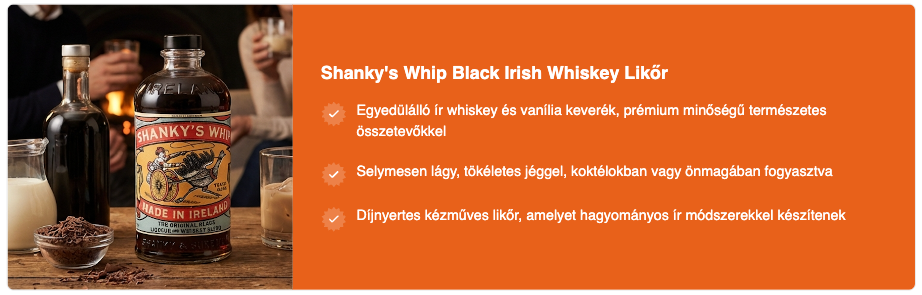
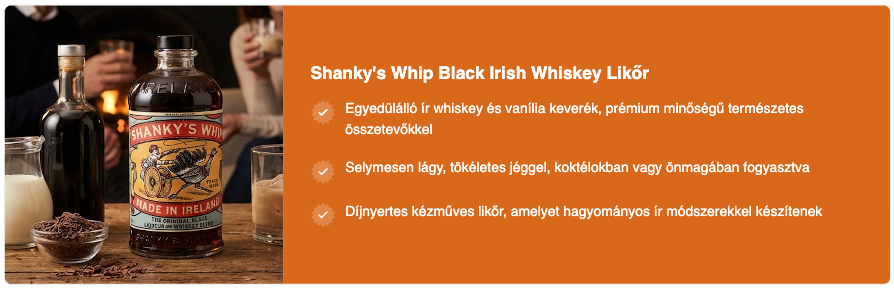
PPO pages: product pages block variants, domain modal improvements, variable selectors
- PPO Campaign Detail V2: three product pages summary layout variants (V1/V2/V3), control variant thumbnail with Ban icon, variant row dividers
- PPO Campaign Flow MVP: domain modal hover effects, Add new domain with AddDomainModal, scroll fade removal at bottom, Button component for close
- PPO Setup Preview V3: SPP block background color changed to match cart button (#d8691b)
- PPO Variant Detail V2: variables selector matching setup-preview-v3 style, SPP block color sync

diff --git a/src/views/PpoCampaignDetailV2View.vue b/src/views/PpoCampaignDetailV2View.vue
@@ -394,11 +394,15 @@
                     <div class="flex-1 bg-gray-200 rounded-sm"></div>
                   </div>
                 </div>
+                <div v-else class="w-36 h-24 rounded-lg border border-om-gray-200 overflow-hidden shrink-0 flex items-center justify-center bg-om-gray-100">
+                  <Ban :size="60" :stroke-width="1" class="text-om-gray-300" />
+                </div>
                 <div>
                   <span class="text-sm font-medium text-om-gray-700">{{ variant.name }}</span>
                   <div v-if="variant.variables.length" class="flex flex-wrap gap-1.5 mt-1.5">
                     <Tag v-for="variable in variant.variables" :key="variable.id" variant="gray">{{ variable.name }}</Tag>
                   </div>
+                  <div v-else class="text-xs text-om-gray-400 mt-1">No variant will be shown.</div>
                 </div>
               </div>
               <div @click.stop>
@@ -436,35 +440,121 @@
 
           <!-- Product Pages -->
           <div class="bg-white rounded-lg shadow-[0_1px_2px_1px_rgb(0_0_0/0.03)] p-5">
-            <!-- Header -->
-            <div class="flex items-center justify-between mb-5">
-              <h3 class="text-base font-semibold text-om-gray-700">Product pages</h3>
-              <div class="flex items-center gap-4">
-                <div class="flex items-baseline gap-1.5">
-                  <span class="text-sm text-om-gray-400">Ready for</span>
-                  <span class="text-2xl font-semibold text-om-gray-700 tabular-nums">{{ campaignProductPages }}</span>
-                  <span class="text-sm text-om-gray-400">/ {{ campaignTotalProducts }}</span>
+            <h3 class="text-base font-semibold text-om-gray-700 mb-4">Product pages</h3>
+            <div class="flex gap-5 items-start">
+              <!-- Variable table -->
+              <div class="flex-1 min-w-0">
+                <div class="grid grid-cols-[1fr_80px_100px_80px] gap-3 px-3 pb-2 border-b border-om-gray-100 text-xs text-om-gray-500 font-medium">
+                  <span>Variable</span>
+                  <span>Type</span>
+                  <span class="text-right">Last updated</span>
+                  <span class="text-right">Ready</span>
                 </div>
-                <Button variant="outline" size="sm">Show product catalog</Button>
+                <div class="flex flex-col">
+                  <div
+                    v-for="variable in allVariables"
+                    :key="variable.id"
+                    class="grid grid-cols-[1fr_80px_100px_80px] gap-3 px-3 py-2.5 cursor-pointer hover:bg-om-gray-50 rounded-lg transition-all items-center"
+                    @click="$emit('navigate', variable.type === 'Image' ? 'settings-ai-texts-images-v2-generation' : 'settings-ai-texts-images-v2-text-generation')"
+                  >
+                    <div class="flex items-center gap-2 min-w-0">
+                      <span class="text-sm text-om-gray-700 truncate">{{ variable.name }}</span>
+                    </div>
+                    <div>
+                      <Tag variant="outlined">{{ variable.type }}</Tag>
+                    </div>
+                    <span class="text-xs text-om-gray-400 text-right">{{ variable.lastUpdated }}</span>
+                    <span class="text-base font-semibold text-om-gray-700 tabular-nums text-right">{{ variable.generated.split(' / ')[0] }}</span>
+                  </div>
+                </div>
+              </div>
+              <!-- Summary side -->
+              <div class="w-96 shrink-0 px-4 py-3 rounded-lg bg-om-gray-50">
+                <div class="flex items-end justify-between mb-2">
+                  <div class="flex items-baseline gap-1.5">
+                    <span class="text-5xl font-light text-om-gray-700 tabular-nums leading-none">{{ campaignProductPages }}</span>
+                    <span class="text-sm text-om-gray-400">/ {{ campaignTotalProducts }} product pages ready</span>
+                  </div>
+                  <Button variant="outline" size="sm" class="shrink-0">Product catalog</Button>
+                </div>
+                <div class="text-xs text-om-gray-400 leading-relaxed">This campaign will appear on product pages where all variables have been successfully generated.</div>
               </div>
             </div>
-            <!-- Variable cards -->
-            <div class="grid gap-2.5" :style="{ gridTemplateColumns: `repeat(${Math.min(allVariables.length, 4)}, 1fr)` }">
-              <div
-                v-for="variable in allVariables"
-                :key="variable.id"
-                class="border border-om-gray-100 rounded-lg px-3 py-2.5 cursor-pointer hover:border-om-gray-200 hover:shadow-sm transition-all flex items-center justify-between gap-3"
-                @click="$emit('navigate', variable.type === 'Image' ? 'settings-ai-texts-images-v2-generation' : 'settings-ai-texts-images-v2-text-generation')"
-              >
-                <div class="flex items-center gap-2 min-w-0">
-                  <div class="w-7 h-7 rounded-md flex items-center justify-center shrink-0" :class="variable.type === 'Image' ? 'bg-blue-50' : 'bg-purple-50'">
-                    <ImageIcon v-if="variable.type === 'Image'" :size="15" class="text-blue-500" />
-                    <Type v-else :size="15" class="text-purple-500" />
-                  </div>
-                  <span class="text-sm text-om-gray-700 truncate">{{ variable.name }}</span>
-                  <span class="text-xs text-om-gray-400 shrink-0">{{ variable.lastUpdated }}</span>
+          </div>
+
+          <!-- Product Pages V2: kör diagram, summary a teljes jobb oldalon -->
+          <div class="bg-white rounded-lg shadow-[0_1px_2px_1px_rgb(0_0_0/0.03)] flex overflow-hidden">
+            <div class="flex-1 p-5">
+              <h3 class="text-base font-semibold text-om-gray-700 mb-4">Product pages — V2</h3>
+              <div class="grid grid-cols-[1fr_80px_100px_80px] gap-3 px-3 pb-2 border-b border-om-gray-100 text-xs text-om-gray-500 font-medium">
+                <span>Variable</span>
+                <span>Type</span>
+                <span class="text-right">Last updated</span>
+                <span class="text-right">Ready</span>
+              </div>
+              <div class="flex flex-col">
+                <div v-for="variable in allVariables" :key="'v2-' + variable.id" class="grid grid-cols-[1fr_80px_100px_80px] gap-3 px-3 py-2.5 cursor-pointer hover:bg-om-gray-50 rounded-lg transition-all items-center">
+                  <div class="flex items-center gap-2 min-w-0"><span class="text-sm text-om-gray-700 truncate">{{ variable.name }}</span></div>
+                  <div><Tag variant="outlined">{{ variable.type }}</Tag></div>
+                  <span class="text-xs text-om-gray-400 text-right">{{ variable.lastUpdated }}</span>
+                  <span class="text-base font-semibold text-om-gray-700 tabular-nums text-right">{{ variable.generated.split(' / ')[0] }}</span>
                 </div>
-                <span class="text-base font-semibold text-om-gray-700 tabular-nums shrink-0">{{ variable.generated.split(' / ')[0] }}</span>
+              </div>
+            </div>
+            <div class="w-96 shrink-0 px-5 py-5 bg-om-gray-50 flex flex-col justify-center m-3 rounded-xl">
+              <!-- Top row: stat + button -->
+              <div class="flex items-start justify-between mb-3">
+                <div class="flex items-center gap-2.5">
+                  <div class="relative w-14 h-14 shrink-0">
+                    <svg class="w-14 h-14 -rotate-90" viewBox="0 0 56 56">
+                      <circle cx="28" cy="28" r="22" fill="none" stroke="#e3e5e8" stroke-width="7" />
+                      <circle cx="28" cy="28" r="22" fill="none" stroke="#2CC896" stroke-width="7" stroke-linecap="round" :stroke-dasharray="`${(campaignProductPages / campaignTotalProducts) * 138.2} 138.2`" />
+                    </svg>
+                  </div>
+                  <div>
+                    <div class="text-[2rem] font-light text-om-gray-700 tabular-nums leading-none font-['Funnel_Sans']">{{ campaignProductPages }}<span class="text-base text-om-gray-500 font-normal"> / {{ campaignTotalProducts }}</span></div>
+                    <div class="text-sm text-om-gray-500 mt-1">product pages ready</div>
+                  </div>
+                </div>
+                <Button variant="outline" size="sm" class="shrink-0">Product catalog</Button>
+              </div>
+              <!-- Description -->
+              <div class="text-xs text-om-gray-400 leading-relaxed">This campaign will appear on product pages where all variables have been successfully generated.</div>
+            </div>
+          </div>
+
+          <!-- Product Pages V3 -->
+          <div class="bg-white rounded-lg shadow-[0_1px_2px_1px_rgb(0_0_0/0.03)] p-5">
+            <h3 class="text-base font-semibold text-om-gray-700 mb-4">Product pages — V3</h3>
+            <div class="flex gap-5 items-start">
+              <div class="flex-1 min-w-0">
+                <div class="grid grid-cols-[1fr_80px_100px_80px] gap-3 px-3 pb-2 border-b border-om-gray-100 text-xs text-om-gray-500 font-medium">
+                  <span>Variable</span>
+                  <span>Type</span>
+                  <span class="text-right">Last updated</span>
+                  <span class="text-right">Ready</span>
+                </div>
+                <div class="flex flex-col">
+                  <div v-for="variable in allVariables" :key="'v3-' + variable.id" class="grid grid-cols-[1fr_80px_100px_80px] gap-3 px-3 py-2.5 cursor-pointer hover:bg-om-gray-50 rounded-lg transition-all items-center">
+                    <div class="flex items-center gap-2 min-w-0"><span class="text-sm text-om-gray-700 truncate">{{ variable.name }}</span></div>
+                    <div><Tag variant="outlined">{{ variable.type }}</Tag></div>
+                    <span class="text-xs text-om-gray-400 text-right">{{ variable.lastUpdated }}</span>
+                    <span class="text-base font-semibold text-om-gray-700 tabular-nums text-right">{{ variable.generated.split(' / ')[0] }}</span>
+                  </div>
+                </div>
+              </div>
+              <div class="w-96 shrink-0 px-5 py-4 rounded-lg bg-om-gray-50">
+                <div class="flex items-end justify-between mb-3">
+                  <div>
+                    <div class="text-sm font-medium text-om-gray-600 mb-1">Product page coverage</div>
+                    <div class="flex items-baseline gap-1.5">
+                      <span class="text-5xl font-light text-om-gray-700 tabular-nums leading-none">{{ campaignProductPages }}</span>
+                      <span class="text-sm text-om-gray-400">/ {{ campaignTotalProducts }}</span>
+                    </div>
+                  </div>
+                  <Button variant="outline" size="sm" class="shrink-0">Product catalog</Button>
+                </div>
+                <div class="text-xs text-om-gray-400 leading-relaxed">This campaign will appear on product pages where all variables have been successfully generated.</div>
               </div>
             </div>
           </div>
@@ -1227,7 +1317,7 @@
 
 <script setup>
 import { ref, reactive, computed, watch, onMounted, onUnmounted } from 'vue'
-import { ChevronDown, ChevronUp, ChevronRight, TrendingUp, Calendar, Target, MoreVertical, GraduationCap, Clock, RefreshCw, Users, Send, Monitor, Smartphone, X, Plus, ImageIcon, Search, SlidersHorizontal, Upload, ArrowLeft, Wand2, Sparkles, Eye, SquareDashedMousePointer, Trash2, Type, Pencil, ChevronsUp, ChevronsDown, Minus, Check } from 'lucide-vue-next'
+import { ChevronDown, ChevronUp, ChevronRight, TrendingUp, Calendar, Target, MoreVertical, GraduationCap, Clock, RefreshCw, Users, Send, Monitor, Smartphone, X, Plus, ImageIcon, Search, SlidersHorizontal, Upload, ArrowLeft, Wand2, Sparkles, Eye, SquareDashedMousePointer, Trash2, Type, Pencil, ChevronsUp, ChevronsDown, Minus, Check, Ban, Info } from 'lucide-vue-next'
 import Tag from '../components/shared/Tag.vue'
 import ProductPagePreview from '../components/ppo/ProductPagePreview.vue'
 import Button from '../components/shared/Button.vue'

diff --git a/src/views/PpoVariantDetailV2View.vue b/src/views/PpoVariantDetailV2View.vue
@@ -158,6 +158,23 @@
                 Position and styling can be set separately for {{ previewMode === 'desktop' ? 'mobile' : 'desktop' }}
               </span>
             </div>
+            <!-- Variables -->
+            <div class="pt-2 mt-2 border-t border-om-gray-200">
+              <label class="text-[11px] uppercase tracking-wider font-semibold text-om-gray-700 mb-2 flex items-center gap-1.5">
+                <GitBranch :size="12" class="text-om-gray-400" />
+                Variables
+              </label>
+              <div class="space-y-2">
+                <div>
+                  <label class="text-xs font-medium text-om-gray-500 mb-1 block">Image</label>
+                  <Dropdown v-model="selectedImageVariable" :options="imageVariableOptions" size="sm" />
+                </div>
+                <div>
+                  <label class="text-xs font-medium text-om-gray-500 mb-1 block">Text</label>
+                  <Dropdown v-model="selectedTextVariable" :options="textVariableOptions" size="sm" />
+                </div>
+              </div>
+            </div>
           </div>
         </div>
 
@@ -171,7 +188,7 @@ import { ref, reactive, computed, onMounted } from 'vue'
 import Button from '../components/shared/Button.vue'
 import Dropdown from '../components/shared/Dropdown.vue'
 import ProductPagePreview from '../components/ppo/ProductPagePreview.vue'
-import { ChevronLeft, Monitor, Smartphone, ChevronDown, ImageIcon, Type, Globe } from 'lucide-vue-next'
+import { ChevronLeft, Monitor, Smartphone, ChevronDown, ImageIcon, Type, Globe, Pencil, GitBranch } from 'lucide-vue-next'
 
 const baseUrl = window.location.origin
 
@@ -212,7 +229,7 @@ const iframeGeneratedContent = computed(() => {
       content['image-badge'] = { image: baseUrl + (previewMode.value === 'mobile' ? '/image-with-badge/image-1-mobile.jpg' : '/image-with-badge/image-1.jpg') }
     } else if (type.id === 'product-summary') {
       const s = typeSettings.value['product-summary'] || {}
-      const bg = s.bgColor || '#E8611A'
+      const bg = s.bgColor || '#d8691b'
       const tc = s.textColor || '#FFFFFF'
       const tff = s.titleFontFamily && s.titleFontFamily !== 'Inherit' ? s.titleFontFamily : ''
       const tfs = s.titleFontSize || '20px'
@@ -292,6 +309,19 @@ const cornersModel = computed({
 })
 const cornerRadius = computed(() => cornerOptions.find(o => o.value === selectedCorner.value)?.radius || '8px')
 
+const imageVariableOptions = [
+  { value: 'lifestyle', label: 'Product Lifestyle Image' },
+  { value: 'badge-desktop', label: 'Product Image with badge desktop' },
+  { value: 'badge-mobile', label: 'Product Image with badge mobile' },
+]
+const selectedImageVariable = ref(imageVariableOptions[0])
+
+const textVariableOptions = [
+  { value: 'headline-summary', label: 'Headline + summary' },
+  { value: 'headline-subheadline', label: 'Headline + subheadline' },
+  { value: 'benefit-list', label: 'Benefit list' },
+]
+const selectedTextVariable = ref(textVariableOptions[0])
 const activeCard = ref('product-summary')
 const showAllBorders = ref(true)
 onMounted(() => { setTimeout(() => { showAllBorders.value = false }, 3000) })
@@ -319,14 +349,14 @@ const desktopSettings = reactive({
   'product-sentence': { fontFamily: 'Inherit', fontSize: '15px', fontWeight: 'Medium', color: '#23262A', lineHeight: '1.5' },
   'benefit-list':     { fontFamily: 'Inherit', fontSize: '14px', fontWeight: 'Regular', color: '#505763', lineHeight: '1.6' },
   'image-badge':      { borderRadius: '12px', aspectRatio: '1:1' },
-  'product-summary':  { titleFontFamily: 'Inherit', titleFontSize: '20px', titleFontWeight: 'Bold', listFontFamily: 'Inherit', listFontSize: '16px', listFontWeight: 'Regular', checkStyle: 'Badge', bgColor: '#E8611A', textColor: '#FFFFFF' },
+  'product-summary':  { titleFontFamily: 'Inherit', titleFontSize: '20px', titleFontWeight: 'Bold', listFontFamily: 'Inherit', listFontSize: '16px', listFontWeight: 'Regular', checkStyle: 'Badge', bgColor: '#d8691b', textColor: '#FFFFFF' },
 })
 const mobileSettings = reactive({
   'product-image':    { borderRadius: '8px', aspectRatio: 'Auto' },
   'product-sentence': { fontFamily: 'Inherit', fontSize: '14px', fontWeight: 'Medium', color: '#23262A', lineHeight: '1.4' },
   'benefit-list':     { fontFamily: 'Inherit', fontSize: '13px', fontWeight: 'Regular', color: '#505763', lineHeight: '1.5' },
   'image-badge':      { borderRadius: '8px', aspectRatio: '1:1' },
-  'product-summary':  { titleFontFamily: 'Inherit', titleFontSize: '18px', titleFontWeight: 'Bold', listFontFamily: 'Inherit', listFontSize: '14px', listFontWeight: 'Regular', checkStyle: 'Badge', bgColor: '#E8611A', textColor: '#FFFFFF' },
+  'product-summary':  { titleFontFamily: 'Inherit', titleFontSize: '18px', titleFontWeight: 'Bold', listFontFamily: 'Inherit', listFontSize: '14px', listFontWeight: 'Regular', checkStyle: 'Badge', bgColor: '#d8691b', textColor: '#FFFFFF' },
 })
 
 const typeSettings = computed(() => previewMode.value === 'desktop' ? desktopSettings : mobileSettings)

diff --git a/src/views/PpoCampaignFlowMvpView.vue b/src/views/PpoCampaignFlowMvpView.vue
@@ -147,15 +147,15 @@
                 <h3 class="text-lg font-semibold text-om-gray-700 mb-1">Select a domain</h3>
                 <p class="text-sm text-om-gray-400">Choose which store to optimize with Smart Product Pages.</p>
               </div>
-              <button @click="closeDomainModal" class="p-1 rounded-lg hover:bg-om-gray-100 transition-colors cursor-pointer text-om-gray-400 hover:text-om-gray-600 shrink-0 mt-0.5">
-                <X :size="18" />
-              </button>
+              <Button variant="ghost" size="sm" icon-only @click="closeDomainModal" class="shrink-0 mt-0.5">
+                <template #icon><X :size="16" /></template>
+              </Button>
             </div>
 
             <!-- Domain list with bottom shadow -->
             <div>
-              <div ref="domainListRef" class="px-6 pb-6 max-h-96 overflow-y-auto domain-list-scroll" @scroll="onDomainListScroll">
-                <div class="space-y-2">
+              <div ref="domainListRef" :class="['px-6 max-h-96 overflow-y-auto', isScrolledToBottom ? '' : 'domain-list-scroll']" @scroll="onDomainListScroll">
+                <div class="space-y-2 pt-2 pb-4">
                   <div
                     v-for="domain in domains"
                     :key="domain.url"
@@ -163,7 +163,7 @@
                     :class="[
                       syncingDomain === domain.url ? 'border-om-gray-200 bg-om-gray-50' :
                       selectedDomain === domain.url ? 'border-om-orange-500 bg-om-orange-50/50' :
-                      'border-om-gray-200 hover:border-om-gray-300'
+                      'border-om-gray-200 hover:border-om-orange-500 hover:shadow-[0_4px_14px_rgba(237,90,41,0.4)] hover:scale-[1.03]'
                     ]"
                     @click="handleDomainClick(domain)"
                   >
@@ -187,10 +187,18 @@
                 </div>
               </div>
             </div>
+            <!-- Sticky add domain -->
+            <div class="px-6 py-6 border-t border-om-gray-100 shrink-0">
+              <button @click="showDomainModal = false; showAddDomainModal = true" class="flex items-center gap-2 text-sm font-medium text-om-orange-500 hover:text-om-orange-600 cursor-pointer transition-colors">
+                <Plus :size="16" />
+                Add new domain
+              </button>
+            </div>
           </div>
         </div>
       </transition>
     </template>
+    <AddDomainModal v-model="showAddDomainModal" @add="handleNewDomain" />
   </DashboardLayout>
 </template>
 
@@ -198,7 +206,9 @@
 import { ref, reactive, computed } from 'vue'
 import DashboardLayout from '../components/layouts/DashboardLayout.vue'
 import Tag from '../components/shared/Tag.vue'
-import { ChevronLeft, ChevronRight, ImageIcon, Type, Check, AlertCircle, ArrowRight, Loader2, X } from 'lucide-vue-next'
+import Button from '../components/shared/Button.vue'
+import AddDomainModal from '../components/shared/AddDomainModal.vue'
+import { ChevronLeft, ChevronRight, ImageIcon, Type, Check, AlertCircle, ArrowRight, Loader2, X, Plus } from 'lucide-vue-next'
 
 const emit = defineEmits(['back', 'next', 'menu-click'])
 
@@ -211,8 +221,11 @@ const headerShadowStyle = computed(() => ({
   transition: 'box-shadow 0.3s ease',
 }))
 
+const isScrolledToBottom = ref(false)
+
 function onDomainListScroll(e) {
   isScrolled.value = e.target.scrollTop > 0
+  isScrolledToBottom.value = e.target.scrollHeight - e.target.scrollTop - e.target.clientHeight < 10
 }
 const pendingType = ref(null)
 const showDomainModal = ref(false)
@@ -258,6 +271,11 @@ function selectType(id) {
 function closeDomainModal() {
   showDomainModal.value = false
   pendingType.value = null
+}
+
+const showAddDomainModal = ref(false)
+function handleNewDomain(newDomain) {
+  domains.push({ url: newDomain, hasCatalog: false, productCount: 0 })
 }
 
 </script>

diff --git a/src/views/PpoCampaignSetupPreviewV3View.vue b/src/views/PpoCampaignSetupPreviewV3View.vue
@@ -228,7 +228,7 @@ const iframeGeneratedContent = computed(() => {
       content['image-badge'] = { image: baseUrl + (previewMode.value === 'mobile' ? '/image-with-badge/image-1-mobile.jpg' : '/image-with-badge/image-1.jpg') }
     } else if (type.id === 'product-summary') {
       const s = typeSettings.value['product-summary'] || {}
-      const bg = s.bgColor || '#E8611A'
+      const bg = s.bgColor || '#d8691b'
       const tc = s.textColor || '#FFFFFF'
       const tff = s.titleFontFamily && s.titleFontFamily !== 'Inherit' ? s.titleFontFamily : ''
       const tfs = s.titleFontSize || '20px'
@@ -350,14 +350,14 @@ const desktopSettings = reactive({
   'product-sentence': { fontFamily: 'Inherit', fontSize: '15px', fontWeight: 'Medium', color: '#23262A', lineHeight: '1.5' },
   'benefit-list':     { fontFamily: 'Inherit', fontSize: '14px', fontWeight: 'Regular', color: '#505763', lineHeight: '1.6' },
   'image-badge':      { borderRadius: '12px', aspectRatio: '1:1' },
-  'product-summary':  { titleFontFamily: 'Inherit', titleFontSize: '20px', titleFontWeight: 'Bold', listFontFamily: 'Inherit', listFontSize: '16px', listFontWeight: 'Regular', checkStyle: 'Badge', bgColor: '#E8611A', textColor: '#FFFFFF' },
+  'product-summary':  { titleFontFamily: 'Inherit', titleFontSize: '20px', titleFontWeight: 'Bold', listFontFamily: 'Inherit', listFontSize: '16px', listFontWeight: 'Regular', checkStyle: 'Badge', bgColor: '#d8691b', textColor: '#FFFFFF' },
 })
 const mobileSettings = reactive({
   'product-image':    { borderRadius: '8px', aspectRatio: 'Auto' },
   'product-sentence': { fontFamily: 'Inherit', fontSize: '14px', fontWeight: 'Medium', color: '#23262A', lineHeight: '1.4' },
   'benefit-list':     { fontFamily: 'Inherit', fontSize: '13px', fontWeight: 'Regular', color: '#505763', lineHeight: '1.5' },
   'image-badge':      { borderRadius: '8px', aspectRatio: '1:1' },
-  'product-summary':  { titleFontFamily: 'Inherit', titleFontSize: '18px', titleFontWeight: 'Bold', listFontFamily: 'Inherit', listFontSize: '14px', listFontWeight: 'Regular', checkStyle: 'Badge', bgColor: '#E8611A', textColor: '#FFFFFF' },
+  'product-summary':  { titleFontFamily: 'Inherit', titleFontSize: '18px', titleFontWeight: 'Bold', listFontFamily: 'Inherit', listFontSize: '14px', listFontWeight: 'Regular', checkStyle: 'Badge', bgColor: '#d8691b', textColor: '#FFFFFF' },
 })
 
 const typeSettings = computed(() => previewMode.value === 'desktop' ? desktopSettings : mobileSettings)
